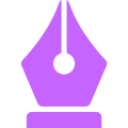
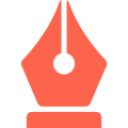
changed theme

diff --git a/public/stylesheets/style-index.css b/public/stylesheets/style-index.css
@@ -1,14 +1,18 @@
 @import url('https://fonts.googleapis.com/css?family=PT+Mono');
 
 
+.background-home{
+  background: url('/images/bg-home.png') no-repeat fixed;
+  background-size: cover;
+}
+
 .index{
   position: absolute;
   top: 0;
   left: 0;
   right: 0;
   bottom: 0;
-  background: url('/images/bg-home.jpg') no-repeat fixed;
-  background-size: cover;
+ 
   height: 100vh;
   width: 100vw;
 }
@@ -42,7 +46,7 @@
   width: 200px;
   border: none;
   box-shadow: 0 4px 8px 0 rgba(0, 0, 0, 0.2), 0 6px 20px 0 rgba(0, 0, 0, 0.19);
-  background-image: linear-gradient(rgb(155, 241, 201), rgb(104, 184, 141));
+  background-image: linear-gradient(rgb(255, 141, 75), rgb(209, 77, 53));
   background-size: cover;
   border-radius: 8px;
   color: white;
@@ -86,7 +90,7 @@
    bottom: 0;
    width: 100%;
    height: 9vh;
-   color: black;
+   color: rgb(27, 19, 19);
    font-size: 3.2vh;
 }
 
@@ -99,9 +103,8 @@
 .padding-info{
   padding: 25px;
   padding-top: 50px;
-  background: url('/images/background-image.png') no-repeat fixed;
-  background-size: cover;
   height: 100vh;
+  width: 100vw;
 }
 
 .ul-info{
@@ -162,7 +165,7 @@
   width: 150px;
   border: none;
   box-shadow: 0 4px 8px 0 rgba(0, 0, 0, 0.2), 0 6px 20px 0 rgba(0, 0, 0, 0.19);
-  background-image: linear-gradient(rgb(155, 241, 201), rgb(104, 184, 141));
+  background-image: linear-gradient(rgb(255, 141, 75), rgb(209, 77, 53));
   background-size: cover;
   border-radius: 8px;
   color: white;
@@ -189,7 +192,7 @@
   padding: 5px 16px;
   border: none;
   box-shadow: 0 4px 8px 0 rgba(0, 0, 0, 0.2), 0 6px 20px 0 rgba(0, 0, 0, 0.19);
-  background-image: linear-gradient(rgb(155, 241, 201), rgb(104, 184, 141));
+  background-image: linear-gradient(rgb(255, 141, 75), rgb(209, 77, 53));
   background-size: cover;
   border-radius: 50%;
   color: white;
@@ -211,7 +214,7 @@
   border: none;
   padding: 12px;
   box-shadow: 0 4px 8px 0 rgba(0, 0, 0, 0.2), 0 6px 20px 0 rgba(0, 0, 0, 0.19);
-  background-image: linear-gradient(rgb(155, 241, 201), rgb(104, 184, 141));
+  background-image: linear-gradient(rgb(255, 141, 75), rgb(209, 77, 53));
   background-size: cover;
   border-radius: 8px;
   color: white;
@@ -280,7 +283,7 @@
 }
 
 .visits-favs-list p{
-  color: #5a3f45;
+  color: #5a3f3f;
   font-size: 2.5vh;
   font-weight: bold;
   padding-right: 10px;

diff --git a/public/stylesheets/style.css b/public/stylesheets/style.css
@@ -65,7 +65,7 @@ nav #menu-toggle {
 #menu a
 {
   text-decoration: none;
-  color: rgb(189, 72, 169);
+  color: rgb(223, 83, 59);
   text-align: center;
   transition: color 0.3s ease;
   font-weight: bold;
@@ -299,7 +299,7 @@ nav #menu-toggle {
 
 .size-a-login{
   font-size: 4vh;
-  color: rgb(85, 65, 90);
+  color: rgb(255, 255, 255);
 }
 
 .footer-login > a {
@@ -318,7 +318,7 @@ nav #menu-toggle {
       border: 1px solid white;
       background-color: white;
       border-radius: 5px;
-      color: rgb(85, 65, 90);
+      color: rgb(90, 69, 65);
       cursor: pointer;
       margin-top: 1.5vh;
       font-size: 3vh;
@@ -330,7 +330,7 @@ nav #menu-toggle {
       width: 200px;
       border: none;
       box-shadow: 0 4px 8px 0 rgba(0, 0, 0, 0.2), 0 6px 20px 0 rgba(0, 0, 0, 0.19);
-      background-image: linear-gradient(rgb(155, 241, 201), rgb(104, 184, 141));
+      background-image: linear-gradient(rgb(255, 141, 75), rgb(209, 77, 53));
       background-size: cover;
       border-radius: 8px;
       color: white;
@@ -345,7 +345,7 @@ nav #menu-toggle {
       width: 180px;
       border: none;
       box-shadow: 0 4px 8px 0 rgba(0, 0, 0, 0.2), 0 6px 20px 0 rgba(0, 0, 0, 0.19);
-      background-image: linear-gradient(rgb(155, 241, 201), rgb(104, 184, 141));
+      background-image: linear-gradient(rgb(255, 141, 75), rgb(209, 77, 53));
       background-size: cover;
       border-radius: 8px;
       color: white;
